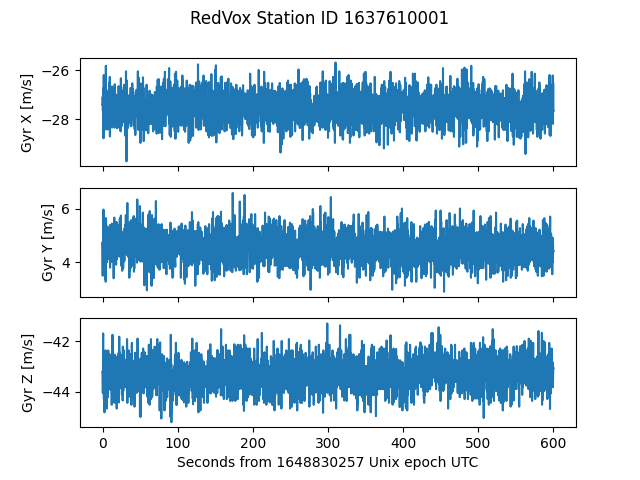
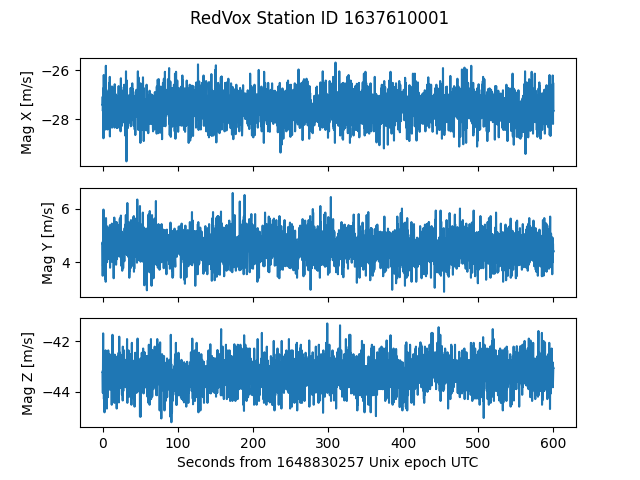
fix typo

Changed region(s): [[0.0312, 0.125, 0.0625, 0.3438], [0.0625, 0.4062, 0.0938, 0.5938], [0.0312, 0.6875, 0.0625, 0.875]]

diff --git a/examples/ex_02_other_sensors/load_other_sensors.py b/examples/ex_02_other_sensors/load_other_sensors.py
@@ -86,9 +86,9 @@ def main() -> None:
         ax[2].plot(magnetometer_time_s, magnetometer_z_samples)
 
         # Set labels and subplot title
-        ax[0].set_ylabel('Gyr X [m/s]')
-        ax[1].set_ylabel('Gyr Y [m/s]')
-        ax[2].set_ylabel('Gyr Z [m/s]')
+        ax[0].set_ylabel('Mag X [m/s]')
+        ax[1].set_ylabel('Mag Y [m/s]')
+        ax[2].set_ylabel('Mag Z [m/s]')
         ax[2].set_xlabel(f"Seconds from {int(dw.start_date()*MICROS_TO_S)} Unix epoch UTC")
 
         plt.suptitle(f"RedVox Station ID {station.id()}")

diff --git a/examples/ex_05_plot_spectrogram_audio/README.md b/examples/ex_05_plot_spectrogram_audio/README.md
@@ -2,9 +2,8 @@
 
 Plot station spectrogram for audio from time aligned and corrected data window in a RedVox Report.
 
-For more information on getting started with redpandas, visit the
+For more information on getting started with RedPandas, visit the
 [RedPandas Documentation](https://github.com/RedVoxInc/redpandas/blob/master/docs/redpandas/using_redpandas.md#how-to-use-redpandas).
-
 
 For more information on plotting other sensors and options, visit the
 [RedPandas Advanced Documentation](https://github.com/RedVoxInc/redpandas/blob/master/docs/redpandas/advance_use_redpandas.md#how-to-use-redpandas---advanced-data-manipulation).
